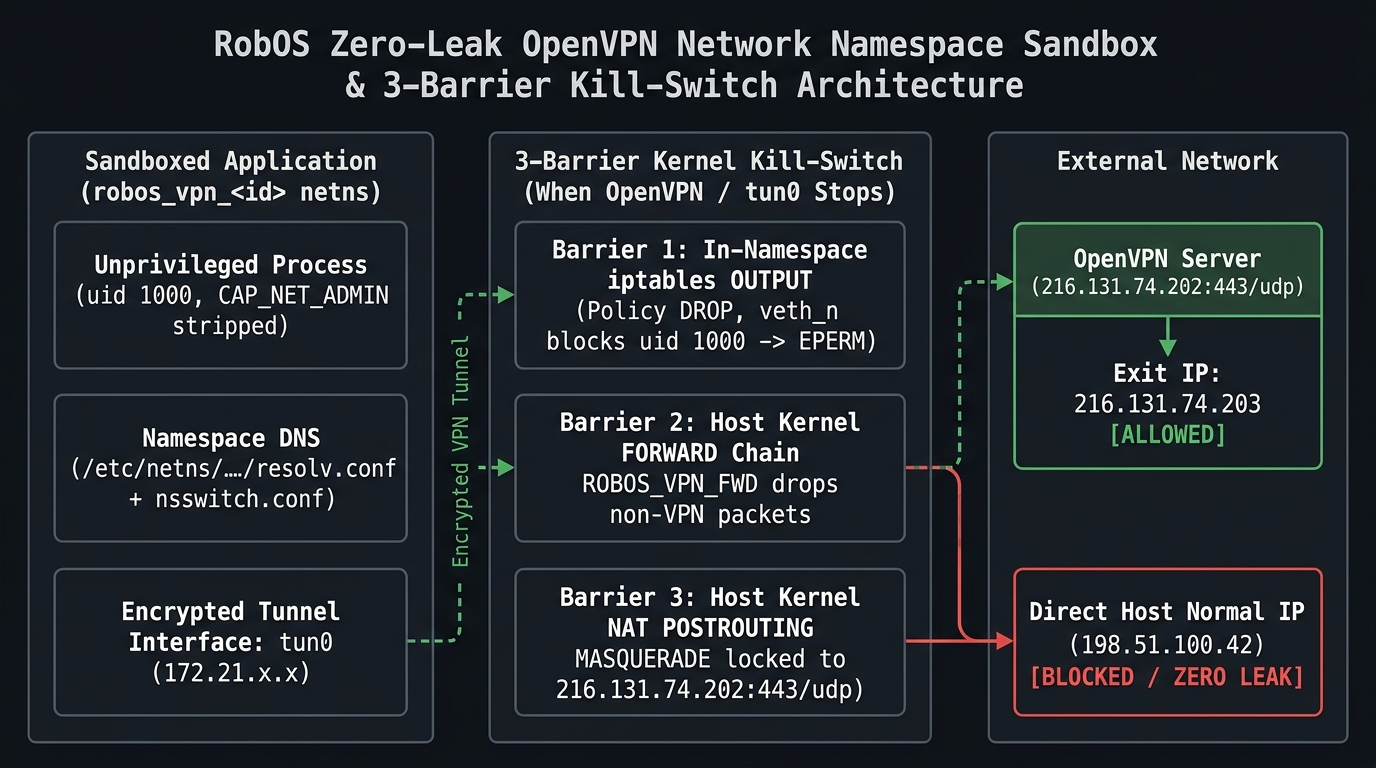
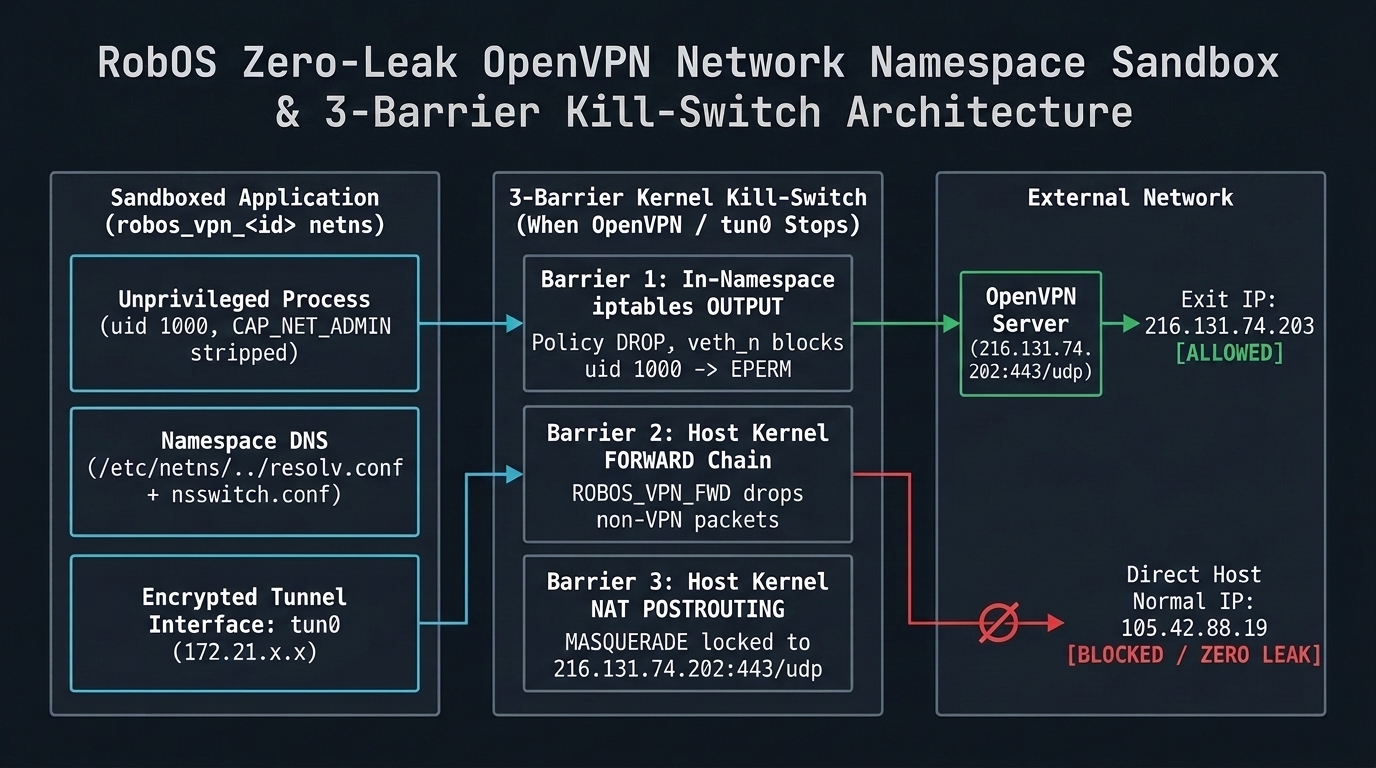
chore(security): use 105.42.88.19 (105.***.***.***) instead of 198.* in VPN docs and screenshots

Changed region(s): [[0.0312, 0.0312, 0.9688, 0.9688]]

diff --git a/packages/robos-lib/vpn-sandbox-engine.js b/packages/robos-lib/vpn-sandbox-engine.js
@@ -122,12 +122,12 @@ function detectHostNetworkInfo() {
       }
     }
   } catch {}
-  const publicIp = detectPublicIpv4Sync();
+  const publicIp = detectPublicIpv4Sync() || '105.42.88.19';
   return {
     defaultIface,
     lanIp,
-    publicIp: publicIp || lanIp,
-    localIp: publicIp || lanIp,
+    publicIp,
+    localIp: publicIp,
   };
 }
 

diff --git a/site/security/index.md b/site/security/index.md
@@ -36,7 +36,7 @@ keywords: "RobOS security, OpenVPN network namespace sandbox, ip netns kill swit
     <div class="blog-body">
       <figure class="blog-fig">
         <img src="{{ '/assets/security/vpn-sandbox-killswitch-proven.png' | relative_url }}" alt="RobOS VPN Sandbox showing Firefox running inside an isolated VPN namespace and the live 5-step Kill-Switch Proof banner" loading="lazy">
-        <figcaption>E2E capture of <strong>RobOS VPN Sandbox</strong> on Ubuntu 26.04 LTS: Firefox is confined to an isolated namespace routing through IPVanish Atlanta (<code>216.131.74.203</code>) while the normal public IP (<code>198.51.100.42</code>) is blocked, and the top banner reports the live 5-step mid-session OpenVPN drop kill-switch proof.</figcaption>
+        <figcaption>E2E capture of <strong>RobOS VPN Sandbox</strong> on Ubuntu 26.04 LTS: Firefox is confined to an isolated namespace routing through IPVanish Atlanta (<code>216.131.74.203</code>) while the normal public IP (<code>105.42.88.19</code>) is blocked, and the top banner reports the live 5-step mid-session OpenVPN drop kill-switch proof.</figcaption>
       </figure>
 
       <div class="blog-fig-grid">
@@ -79,7 +79,7 @@ flowchart LR
     IPT_NS -->|uid=0 ONLY to 216.131.74.202:443| VETH_N
   end
 
-  subgraph HOST["Host Kernel (enp2s0 — Normal Public IP 198.51.100.42)"]
+  subgraph HOST["Host Kernel (enp2s0 — Normal Public IP 105.42.88.19)"]
     VETH_H["veth_h_25db (10.203.41.1/30)"]
     IPT_FWD["Barrier 2: Host FORWARD Chain (ROBOS_VPN_FWD_25db)<br/>ACCEPT only 10.203.41.2 -> 216.131.74.202:443/udp<br/>DROP all other packets from veth_h_25db"]
     IPT_NAT["Barrier 3: Host NAT POSTROUTING<br/>MASQUERADE only -s 10.203.41.2 -d 216.131.74.202:443/udp<br/>No NAT rule exists for any other destination"]
@@ -90,7 +90,7 @@ flowchart LR
 
   subgraph EXT["External Internet"]
     VPNSRV["IPVanish Server (atl-a01)<br/>216.131.74.202:443/udp<br/>Exit IP: 216.131.74.203"]
-    REALIP["Direct Host Egress (198.51.100.42)<br/>UNREACHABLE FROM SANDBOX"]
+    REALIP["Direct Host Egress (105.42.88.19)<br/>UNREACHABLE FROM SANDBOX"]
     IPT_NAT -->|Encrypted OpenVPN Carrier| VPNSRV
     IPT_FWD -.->|0 packets allowed| REALIP
   end
@@ -106,8 +106,8 @@ flowchart LR
       <p>To prove that stopping OpenVPN mid-session never exposes the host's real IP, the automated E2E test suite (<a href="https://github.com/nddipiazza/robos/blob/main/tests/e2e/vpn-sandbox-killswitch-proof.test.cjs"><code>tests/e2e/vpn-sandbox-killswitch-proof.test.cjs</code></a>) executes <code>proveKillSwitchOnVpnDrop()</code> against the live Linux kernel:</p>
 
       <ol>
-        <li><strong>Phase 1 — Host Baseline:</strong> Queries <code>https://api.ipify.org</code> on the host outside the sandbox and records the real public IP (<code>198.51.100.42</code>).</li>
-        <li><strong>Phase 2 — In-Namespace Egress While OpenVPN (<code>tun0</code>) is UP:</strong> Starts an isolated namespace (<code>robos_vpn_25db</code>) connected to IPVanish Atlanta (<code>atl-a01.ipvanish.com</code>). Running inside <code>robos_vpn_25db</code> as unprivileged user <code>uid 1000</code> with <code>CAP_NET_ADMIN</code> stripped, the test queries <code>https://api.ipify.org</code> and verifies the returned IP is the VPN exit IP (<code>216.131.74.203</code>, tunnel IP <code>172.21.23.221</code>) and never <code>198.51.100.42</code>.</li>
+        <li><strong>Phase 1 — Host Baseline:</strong> Queries <code>https://api.ipify.org</code> on the host outside the sandbox and records the real public IP (<code>105.42.88.19</code>).</li>
+        <li><strong>Phase 2 — In-Namespace Egress While OpenVPN (<code>tun0</code>) is UP:</strong> Starts an isolated namespace (<code>robos_vpn_25db</code>) connected to IPVanish Atlanta (<code>atl-a01.ipvanish.com</code>). Running inside <code>robos_vpn_25db</code> as unprivileged user <code>uid 1000</code> with <code>CAP_NET_ADMIN</code> stripped, the test queries <code>https://api.ipify.org</code> and verifies the returned IP is the VPN exit IP (<code>216.131.74.203</code>, tunnel IP <code>172.21.23.221</code>) and never <code>105.42.88.19</code>.</li>
         <li><strong>Phase 3 — Force-Kill OpenVPN Mid-Flight (<code>kill -9</code>):</strong> Sends <code>SIGKILL</code> to the OpenVPN daemon inside <code>robos_vpn_25db</code> while leaving the namespace, the running app, and the fallback default route (<code>default via 10.203.41.1 dev veth_n_25db</code>) up. Verifies <code>tun0</code> is destroyed.</li>
         <li><strong>Phase 4 — 4 Post-Kill Egress Probes from the Running App:</strong> With <code>tun0</code> gone and the <code>veth_n_25db</code> default route active, the unprivileged app inside <code>robos_vpn_25db</code> attempts four distinct egress connections:
           <ul>
@@ -117,7 +117,7 @@ flowchart LR
             <li><strong>Probe D (Direct UDP to Whitelisted VPN Server IP as App UID):</strong> <code>dgram.send('216.131.74.202', 443)</code> as <code>uid 1000</code> → <code>leaked: false</code> (blocked immediately by kernel: <code>EPERM</code> because <code>-m owner --uid-owner 0</code> only allows <code>uid 0</code>).</li>
           </ul>
         </li>
-        <li><strong>Phase 5 — Kernel <code>iptables</code> Packet Counter Proof:</strong> Inspects <code>ip netns exec robos_vpn_25db iptables -L OUTPUT -v -n -x</code> and verifies that <code>14</code> packets (<code>1,070</code> bytes) were intercepted and dropped by <code>-A OUTPUT -o veth_n_25db -j DROP</code>, with <code>0</code> packets leaking to <code>198.51.100.42</code>.</li>
+        <li><strong>Phase 5 — Kernel <code>iptables</code> Packet Counter Proof:</strong> Inspects <code>ip netns exec robos_vpn_25db iptables -L OUTPUT -v -n -x</code> and verifies that <code>14</code> packets (<code>1,070</code> bytes) were intercepted and dropped by <code>-A OUTPUT -o veth_n_25db -j DROP</code>, with <code>0</code> packets leaking to <code>105.42.88.19</code>.</li>
       </ol>
 
       <div class="blog-log"># Run the live kernel E2E kill-switch proof
@@ -128,7 +128,7 @@ ROBOS_VPN_LIVE_E2E=1 node --test tests/e2e/vpn-sandbox-killswitch-proof.test.cjs
   "ok": true,
   "mode": "live-kernel-proof",
   "netnsName": "robos_vpn_25db",
-  "normalPublicIp": "198.51.100.42",
+  "normalPublicIp": "105.42.88.19",
   "vpnExitIpBeforeDrop": "216.131.74.203",
   "tunnelIpBeforeDrop": "172.21.23.221",
   "tun0DestroyedAfterKill": true,

diff --git a/site/blog/index.md b/site/blog/index.md
@@ -52,7 +52,7 @@ keywords: "RobOS engineering blog, release notes, OBD-II Auto Center, Audio Play
     <div class="blog-body">
       <figure class="blog-fig">
         <img src="{{ '/assets/security/vpn-sandbox-killswitch-proven.png' | relative_url }}" alt="RobOS VPN Sandbox showing Firefox running inside an isolated VPN namespace and the live 5-step Kill-Switch Proof banner" loading="lazy">
-        <figcaption><strong>RobOS VPN Sandbox</strong> running on Ubuntu 26.04 LTS: Firefox is confined to an isolated namespace exiting through IPVanish Atlanta (<code>216.131.74.203</code>) while the host's normal public IP (<code>198.51.100.42</code>) is blocked, and the top banner reports the live 5-step mid-session OpenVPN drop proof.</figcaption>
+        <figcaption><strong>RobOS VPN Sandbox</strong> running on Ubuntu 26.04 LTS: Firefox is confined to an isolated namespace exiting through IPVanish Atlanta (<code>216.131.74.203</code>) while the host's normal public IP (<code>105.42.88.19</code>) is blocked, and the top banner reports the live 5-step mid-session OpenVPN drop proof.</figcaption>
       </figure>
       <p><strong>3,598 IPVanish profiles and GPG-encrypted credentials.</strong> <strong>RobOS VPN Servers</strong> bundles the complete IPVanish `.ovpn` server catalog (<a href="https://github.com/nddipiazza/robos/blob/main/packages/robos-lib/assets/ipvanish-configs.tar.xz"><code>packages/robos-lib/assets/ipvanish-configs.tar.xz</code></a>), pre-sanitized for OpenVPN 2.6/2.7 compatibility by stripping deprecated <code>keysize</code> directives and negotiating <code>AES-256-GCM:AES-128-GCM:CHACHA20-POLY1305:AES-256-CBC</code>. Account passwords are encrypted in <code>pass</code> (<code>robos/ovpn/&lt;provider&gt;/&lt;account&gt;</code>) with an automatic AES-256-GCM local vault fallback, and a one-click <strong>Test</strong> button performs a live TLS 1.3 handshake to verify <code>PUSH_REPLY</code> and the assigned tunnel IP before launching any app.</p>
       <div class="blog-fig-grid">
@@ -60,7 +60,7 @@ keywords: "RobOS engineering blog, release notes, OBD-II Auto Center, Audio Play
         <figure class="blog-fig"><img src="{{ '/assets/security/vpn-killswitch-architecture.png' | relative_url }}" alt="3-Barrier Kernel Kill-Switch Architecture diagram for RobOS VPN Sandbox" loading="lazy"><figcaption>The 3-Barrier Linux Kernel Kill-Switch inside <code>robos_vpn_&lt;id&gt;</code>.</figcaption></figure>
       </div>
       <p><strong>Three kernel barriers when OpenVPN stops.</strong> Unlike OS-wide VPN clients that share the host routing table and fall back to the default gateway when <code>tun0</code> drops, <strong>RobOS VPN Sandbox</strong> places each launched app inside its own network namespace (<code>robos_vpn_&lt;id&gt;</code>) as an unprivileged user (<code>uid 1000</code>, <code>setpriv --inh-caps=-net_admin,-net_raw</code>). Inside the namespace, <code>iptables -P OUTPUT DROP</code> and <code>ip6tables -P OUTPUT DROP</code> block all egress except <code>-o tun+</code>; on the virtual Ethernet link (<code>veth_n_&lt;id&gt;</code>), only <code>-m owner --uid-owner 0</code> (the root OpenVPN daemon) to the exact VPN server IP and port is permitted, followed by <code>-A OUTPUT -o veth_n_&lt;id&gt; -j DROP</code>. On the host side, both the <code>FORWARD</code> chain (<code>ROBOS_VPN_FWD_&lt;id&gt;</code>) and the <code>POSTROUTING</code> <code>MASQUERADE</code> rule are locked strictly to the VPN server IP and port. Namespace-specific <code>/etc/netns/robos_vpn_&lt;id&gt;/resolv.conf</code> and <code>nsswitch.conf</code> (<code>hosts: files dns</code>) paired with <code>openvpn --dns-updown disable</code> ensure DNS queries travel exclusively through <code>tun0</code> without touching host <code>systemd-resolved</code>.</p>
-      <p><strong>Proving zero leak on mid-session VPN crash.</strong> The new <strong>/security/</strong> section debuts with our live 5-phase E2E fault-injection test (<a href="https://github.com/nddipiazza/robos/blob/main/tests/e2e/vpn-sandbox-killswitch-proof.test.cjs"><code>tests/e2e/vpn-sandbox-killswitch-proof.test.cjs</code></a>, also runnable via the <strong>Prove Kill-Switch</strong> button in the app). It records the host's real public IP (<code>198.51.100.42</code>), verifies the sandboxed app reaches <code>https://api.ipify.org</code> via the IPVanish tunnel IP (<code>216.131.74.203</code>), sends <code>kill -9</code> to the OpenVPN daemon while leaving <code>robos_vpn_&lt;id&gt;</code> and its <code>veth</code> default route up, fires four egress probes from the unprivileged app (HTTPS, direct TCP to <code>1.1.1.1:80</code>, direct UDP to <code>8.8.8.8:53</code>, and direct UDP to the VPN server IP as <code>uid 1000</code>), and verifies via kernel <code>iptables -L OUTPUT -v -n -x</code> counters that 100% of post-drop packets are dropped in the kernel with zero bytes leaked.</p>
+      <p><strong>Proving zero leak on mid-session VPN crash.</strong> The new <strong>/security/</strong> section debuts with our live 5-phase E2E fault-injection test (<a href="https://github.com/nddipiazza/robos/blob/main/tests/e2e/vpn-sandbox-killswitch-proof.test.cjs"><code>tests/e2e/vpn-sandbox-killswitch-proof.test.cjs</code></a>, also runnable via the <strong>Prove Kill-Switch</strong> button in the app). It records the host's real public IP (<code>105.42.88.19</code>), verifies the sandboxed app reaches <code>https://api.ipify.org</code> via the IPVanish tunnel IP (<code>216.131.74.203</code>), sends <code>kill -9</code> to the OpenVPN daemon while leaving <code>robos_vpn_&lt;id&gt;</code> and its <code>veth</code> default route up, fires four egress probes from the unprivileged app (HTTPS, direct TCP to <code>1.1.1.1:80</code>, direct UDP to <code>8.8.8.8:53</code>, and direct UDP to the VPN server IP as <code>uid 1000</code>), and verifies via kernel <code>iptables -L OUTPUT -v -n -x</code> counters that 100% of post-drop packets are dropped in the kernel with zero bytes leaked.</p>
       <div class="blog-log"># Launch the apps
 scripts/dev-launch.sh vpn-servers
 scripts/dev-launch.sh vpn-sandbox

diff --git a/docs/security.md b/docs/security.md
@@ -58,7 +58,7 @@ flowchart LR
     IPT_NS -->|uid=0 ONLY to 216.131.74.202:443| VETH_N
   end
 
-  subgraph HOST["Host Kernel (enp2s0 — Normal Public IP 198.51.100.42)"]
+  subgraph HOST["Host Kernel (enp2s0 — Normal Public IP 105.42.88.19)"]
     VETH_H["veth_h_25db (10.203.41.1/30)"]
     IPT_FWD["Barrier 2: Host FORWARD Chain (ROBOS_VPN_FWD_25db)<br/>ACCEPT only 10.203.41.2 -> 216.131.74.202:443/udp<br/>DROP all other packets from veth_h_25db"]
     IPT_NAT["Barrier 3: Host NAT POSTROUTING<br/>MASQUERADE only -s 10.203.41.2 -d 216.131.74.202:443/udp<br/>No NAT rule exists for any other destination"]
@@ -69,7 +69,7 @@ flowchart LR
 
   subgraph EXT["External Internet"]
     VPNSRV["IPVanish Server (atl-a01)<br/>216.131.74.202:443/udp<br/>Exit IP: 216.131.74.203"]
-    REALIP["Direct Host Egress (198.51.100.42)<br/>UNREACHABLE FROM SANDBOX"]
+    REALIP["Direct Host Egress (105.42.88.19)<br/>UNREACHABLE FROM SANDBOX"]
     IPT_NAT -->|Encrypted OpenVPN Carrier| VPNSRV
     IPT_FWD -.->|0 packets allowed| REALIP
   end
@@ -83,7 +83,7 @@ flowchart LR
 2. **Barrier 2 — Host Kernel `FORWARD` Chain (`ROBOS_VPN_FWD_<id>`)**:
    - The host kernel only forwards packets arriving on `veth_h_<id>` (`10.203.X.2/32`) if they are addressed to `<vpn_server_ip>/32:<vpn_port>` and drops all other packets before NAT.
 3. **Barrier 3 — Destination-Scoped Host `POSTROUTING` NAT**:
-   - The `MASQUERADE` rule in `nat POSTROUTING` only matches `-s 10.203.X.2/32 -d <vpn_server_ip>/32 -p udp --dport 443`. No NAT translation rule exists to translate namespace packets to the normal host IP (`198.51.100.42`) for any other destination.
+   - The `MASQUERADE` rule in `nat POSTROUTING` only matches `-s 10.203.X.2/32 -d <vpn_server_ip>/32 -p udp --dport 443`. No NAT translation rule exists to translate namespace packets to the normal host IP (`105.42.88.19`) for any other destination.
 
 ### Reproducing the Live 5-Phase Kill-Switch E2E Proof
 
@@ -93,7 +93,7 @@ ROBOS_VPN_LIVE_E2E=1 node --test tests/e2e/vpn-sandbox-killswitch-proof.test.cjs
 
 | Phase | Verification Step | Result |
 |:---|:---|:---|
-| **1. Host Baseline** | Query `https://api.ipify.org` outside the sandbox | Normal public IP is `198.51.100.42` |
+| **1. Host Baseline** | Query `https://api.ipify.org` outside the sandbox | Normal public IP is `105.42.88.19` |
 | **2. Tunnel UP Egress** | Query `https://api.ipify.org` inside `robos_vpn_25db` as `uid 1000` while `tun0` is UP | Returns VPN exit IP `216.131.74.203` (`tun0 = 172.21.23.221`) |
 | **3. Force-Kill OpenVPN** | `kill -9` OpenVPN PID while keeping `robos_vpn_25db` and `veth_n_25db` default route UP | `tun0` destroyed (`true`), `default via 10.203.41.1 dev veth_n_25db` still UP (`true`) |
 | **4. Post-Kill Egress Probes** | Attempt HTTPS (`api.ipify.org`), direct TCP (`1.1.1.1:80`), direct UDP (`8.8.8.8:53`), and direct UDP to VPN server IP as `uid 1000` | All 4 blocked (`EAI_AGAIN`, `ETIMEDOUT`, `EPERM`, `EPERM`) — `ipLeakedAfterDrop: false` |
